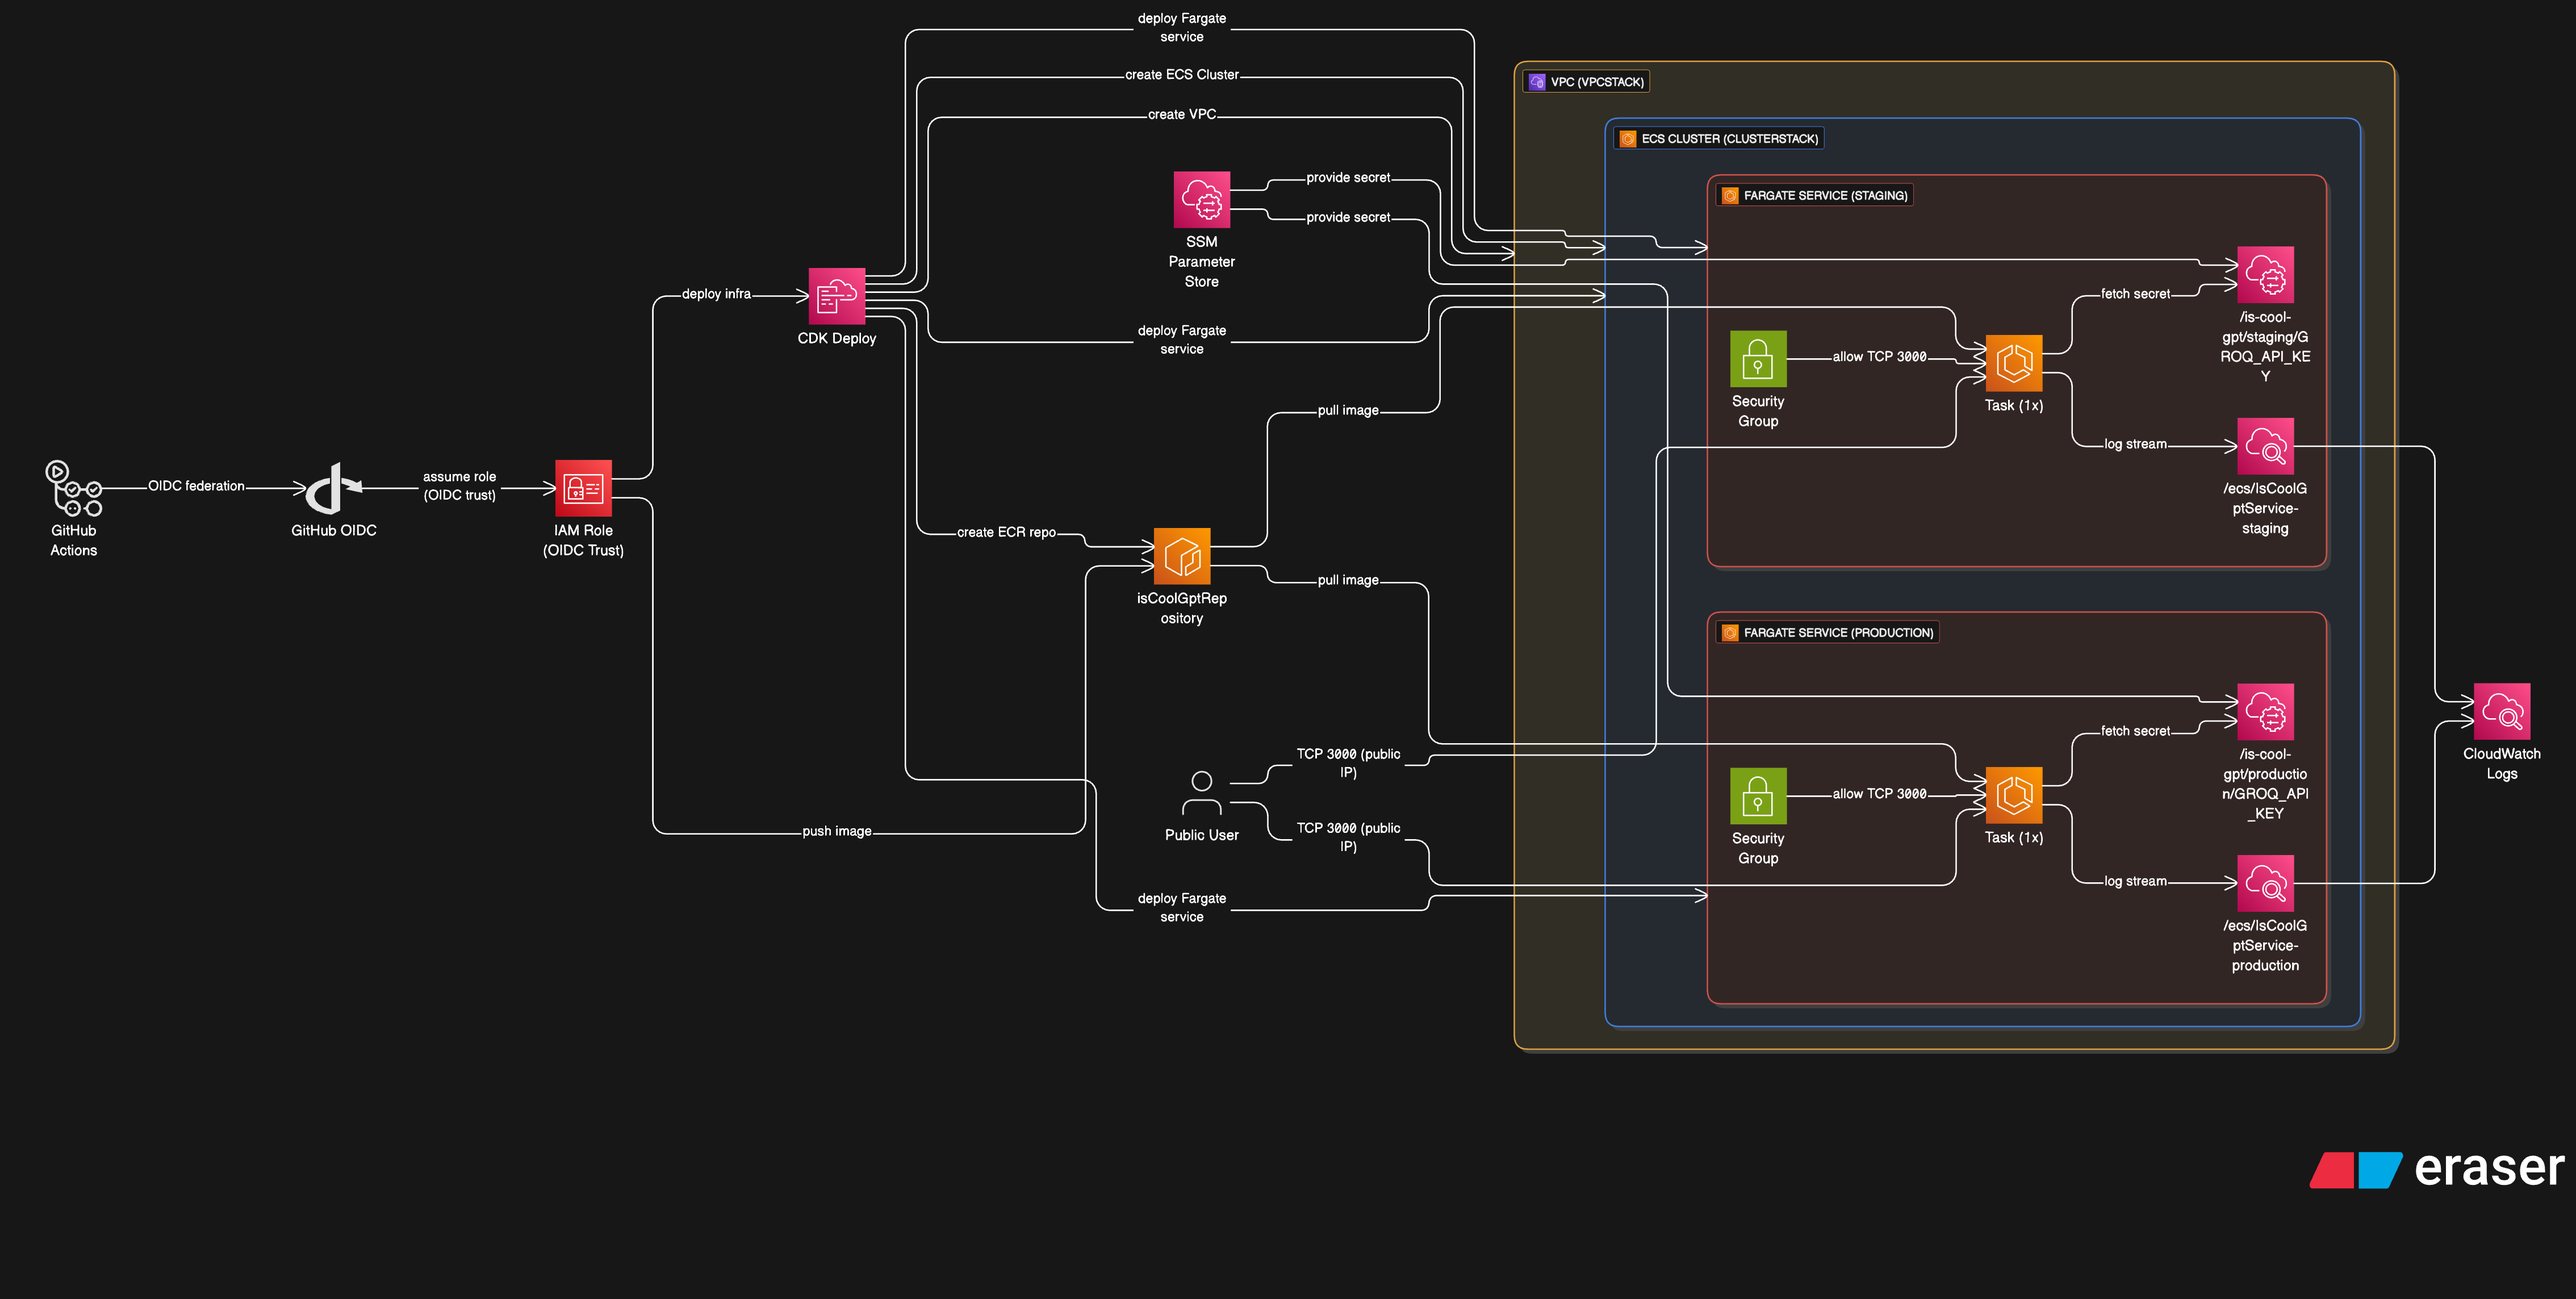
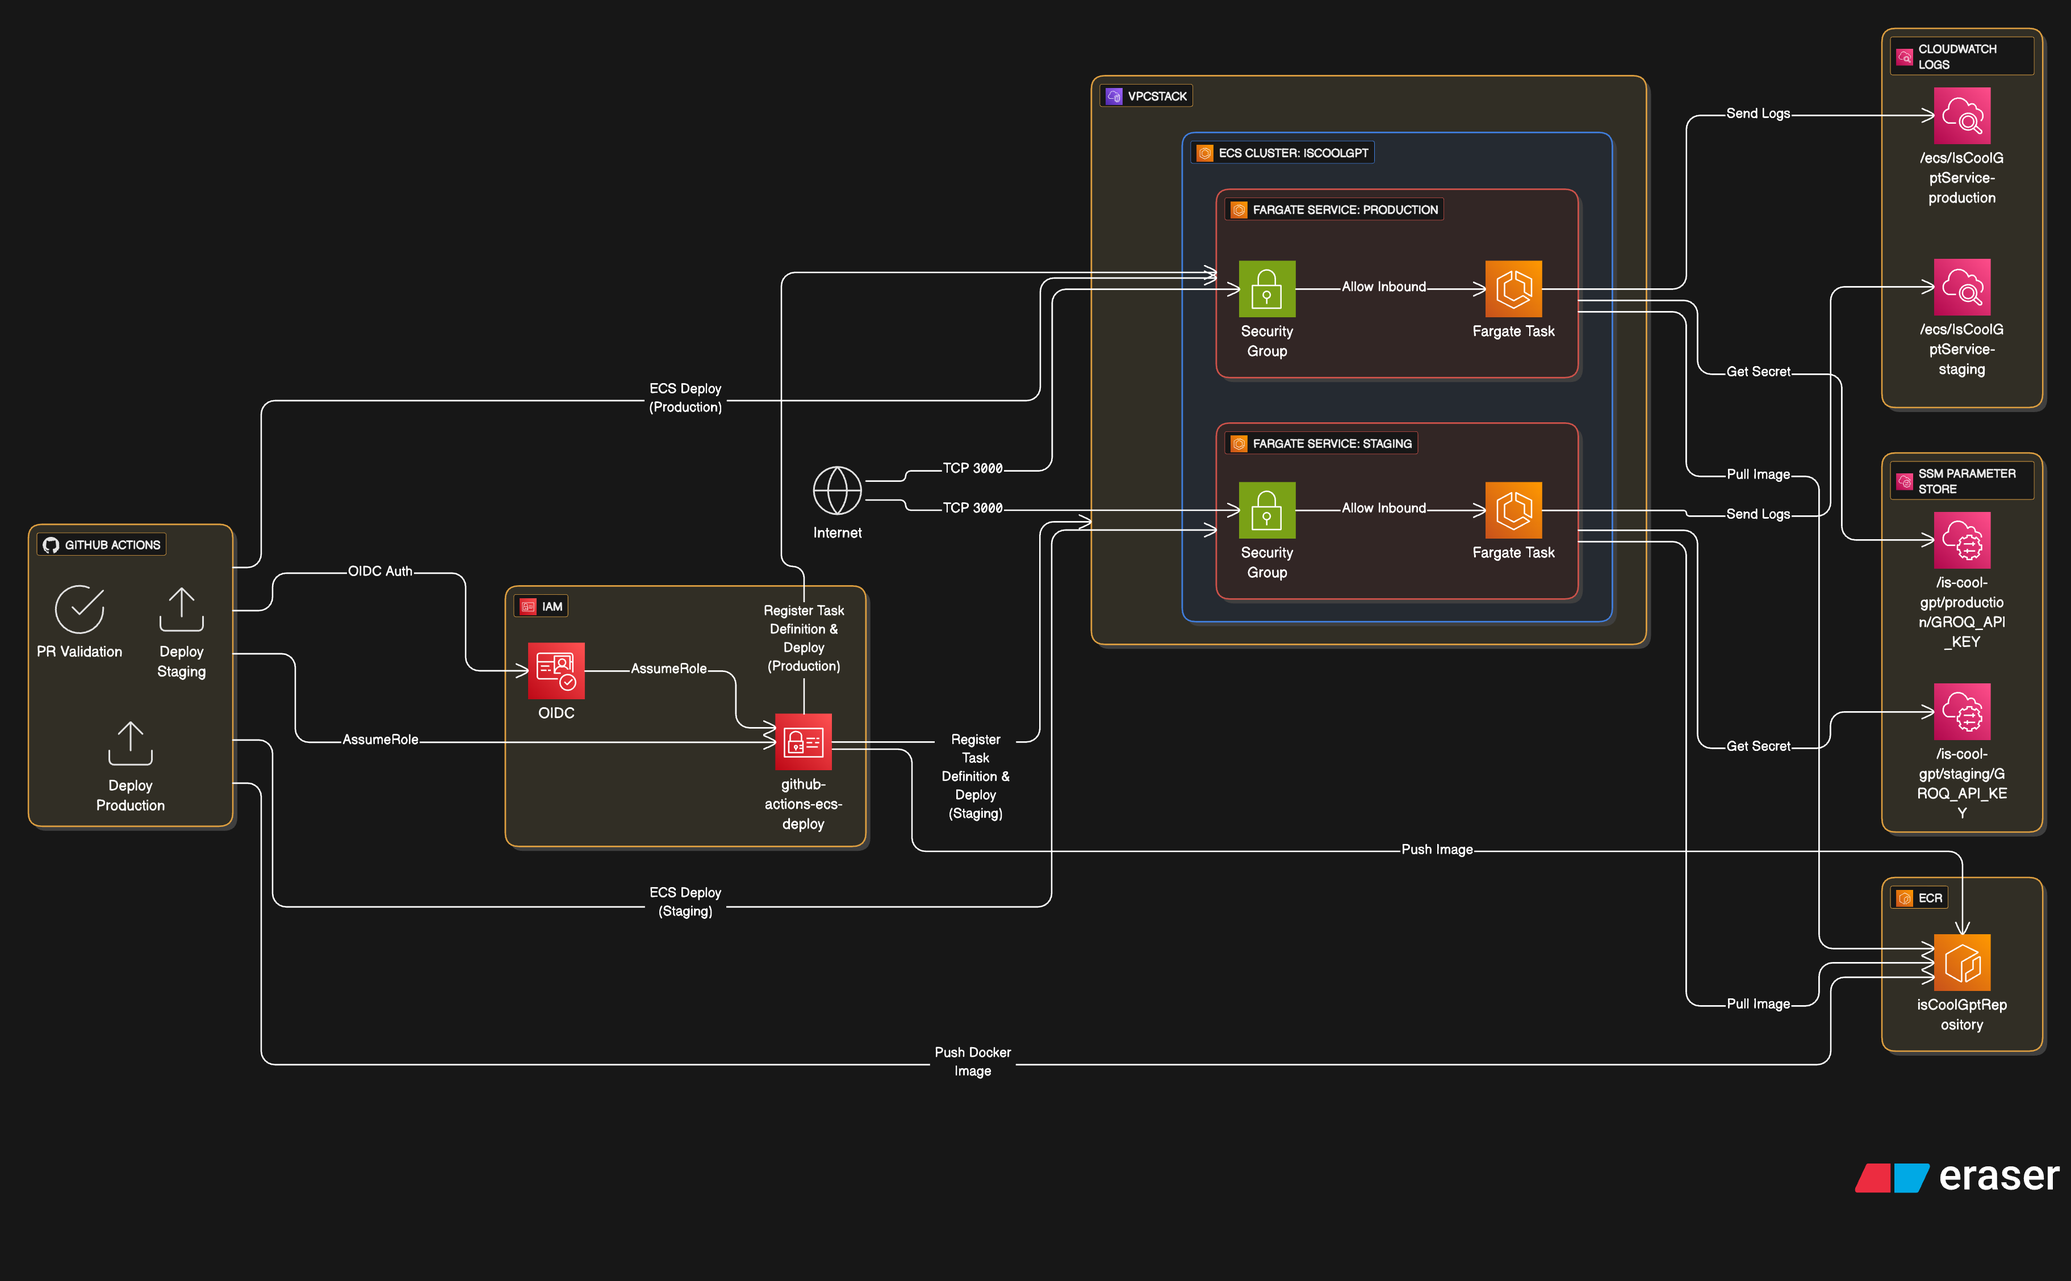
fix: oidc fix

diff --git a/infra/lib/github-oidc-role-stack.ts b/infra/lib/github-oidc-role-stack.ts
@@ -18,6 +18,7 @@ export class GithubOidcRoleStack extends cdk.Stack {
       StringLike: {
         'token.actions.githubusercontent.com:sub': [
           'repo:edmaaralencar/tc-projeto-final:ref:refs/heads/staging',
+          'repo:edmaaralencar/tc-projeto-final:ref:refs/heads/main',
           // 'repo:YOUR_ORG/YOUR_REPO:ref:refs/tags/*'
         ],
       },

diff --git a/vitest.config.ts b/vitest.config.ts
@@ -2,8 +2,8 @@ import { defineConfig } from 'vitest/config'
 
 export default defineConfig({
   test: {
-    environment: 'node', // important for backend
-    globals: true, // so you can use test/expect without import if you like
+    environment: 'node',
+    globals: true,
     include: ['src/routes/*.test.ts'],
     exclude: ['node_modules', 'dist'],
   },

diff --git a/src/routes/chat.ts b/src/routes/chat.ts
@@ -10,7 +10,7 @@ export async function chat(app: FastifyInstance) {
     {
       schema: {
         tags: ['Chat'],
-        summary: 'Health check',
+        summary: '',
         body: z.object({
           content: z.string(),
         }),
